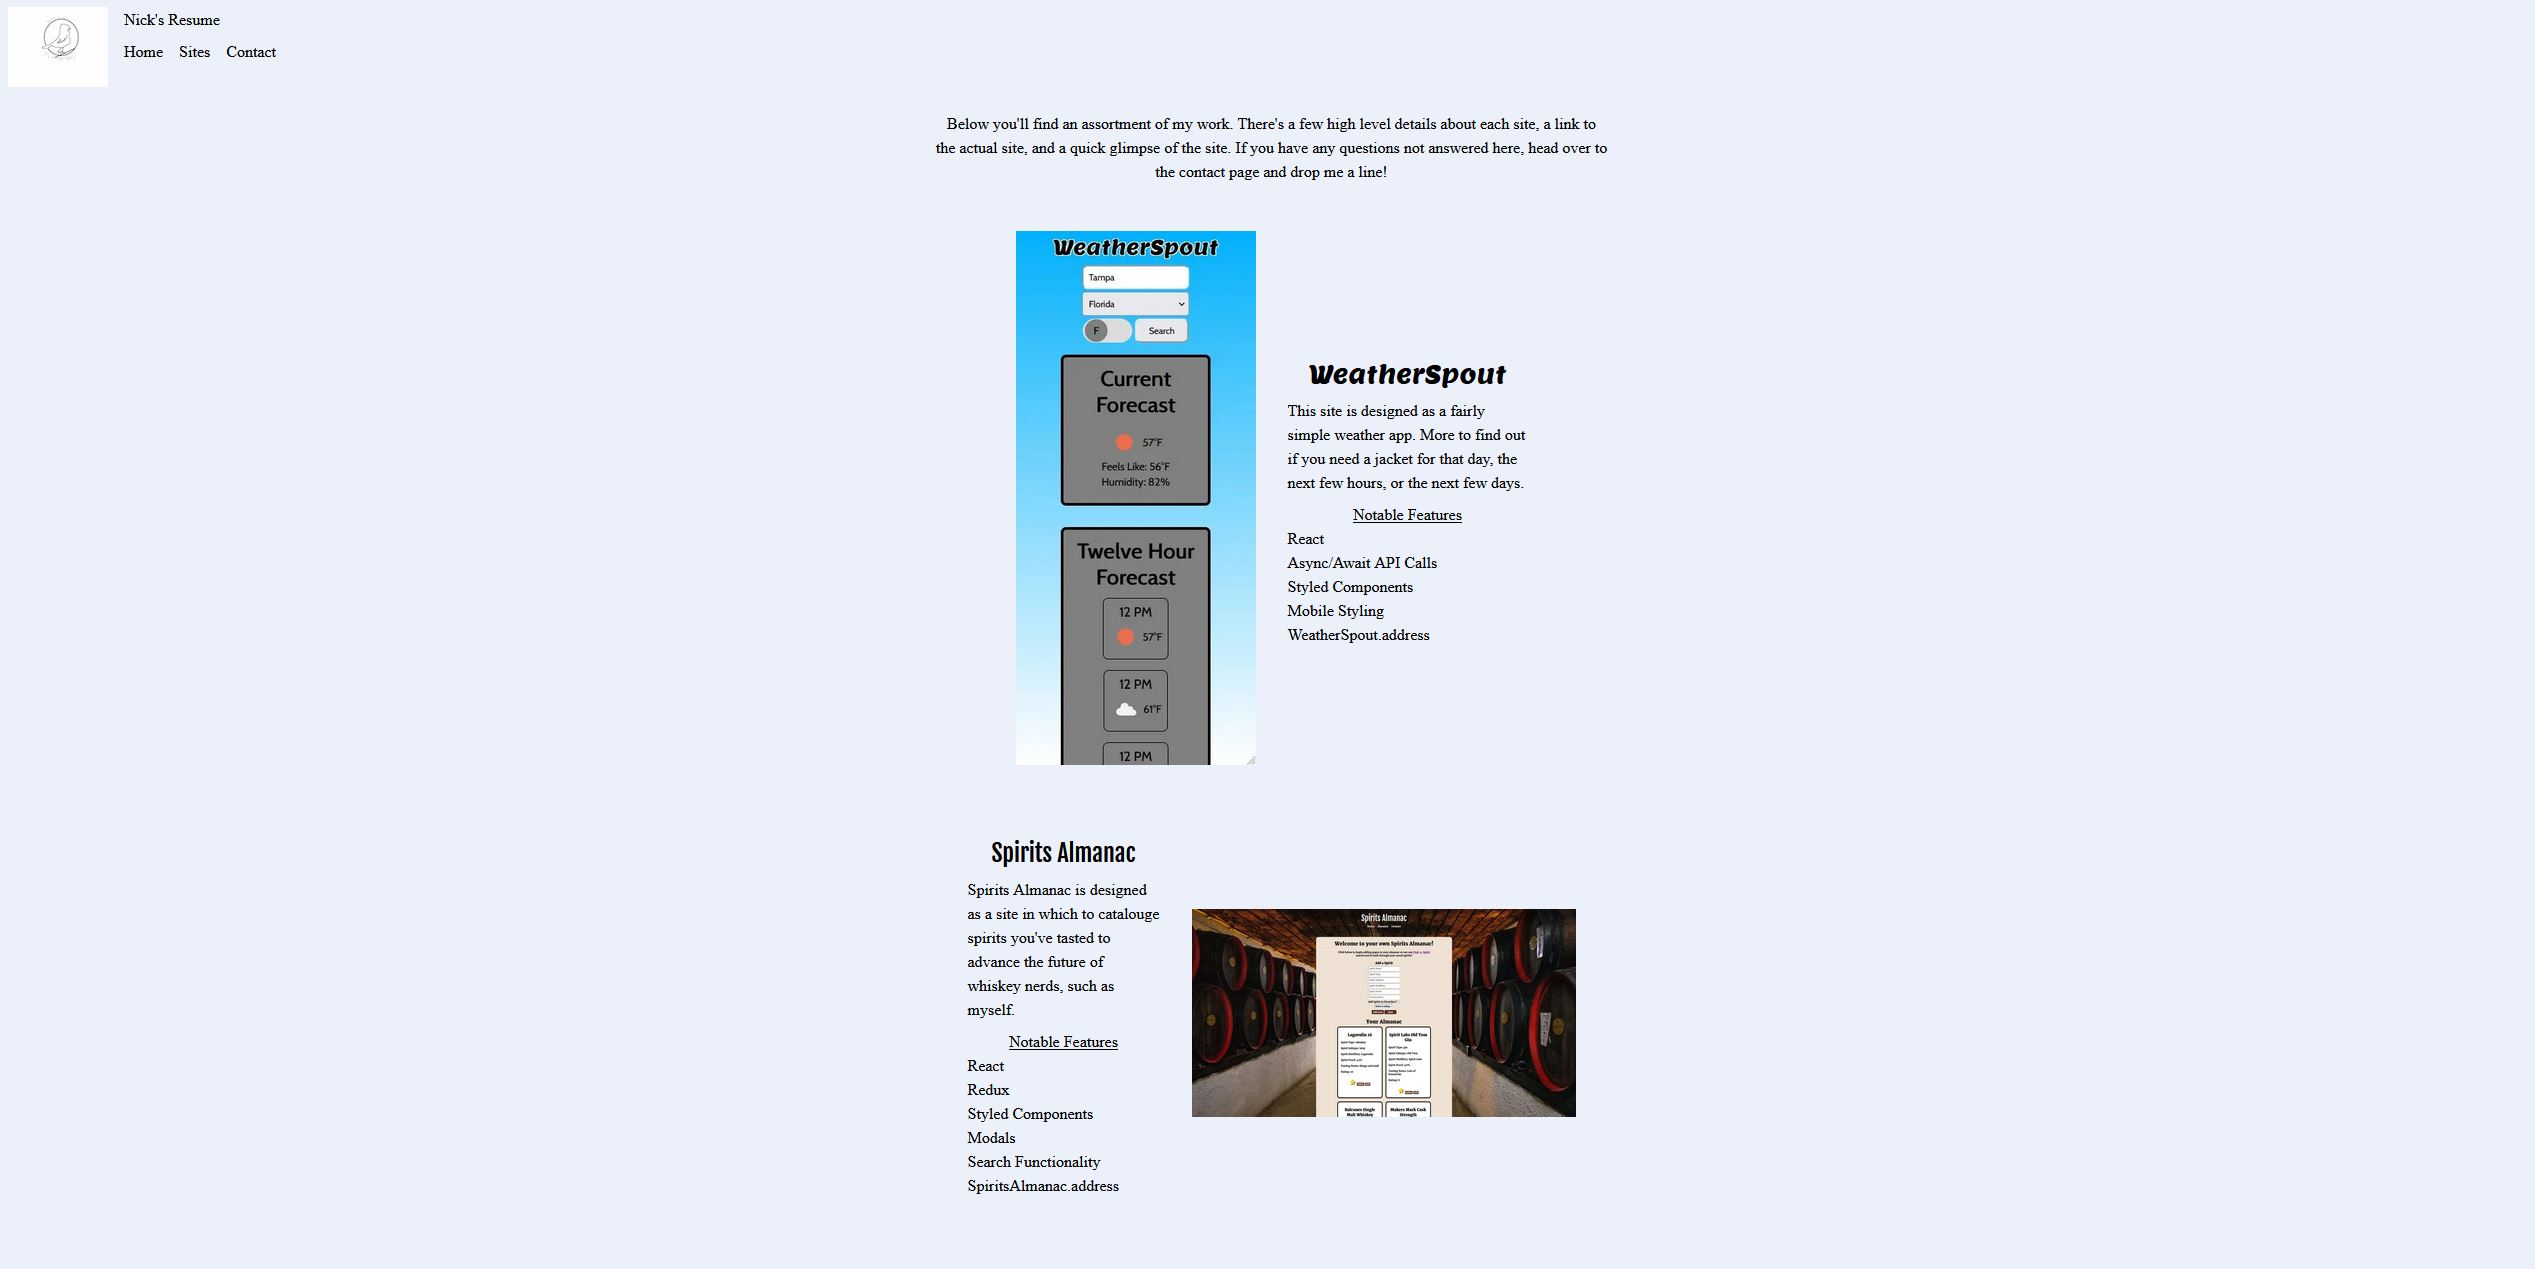
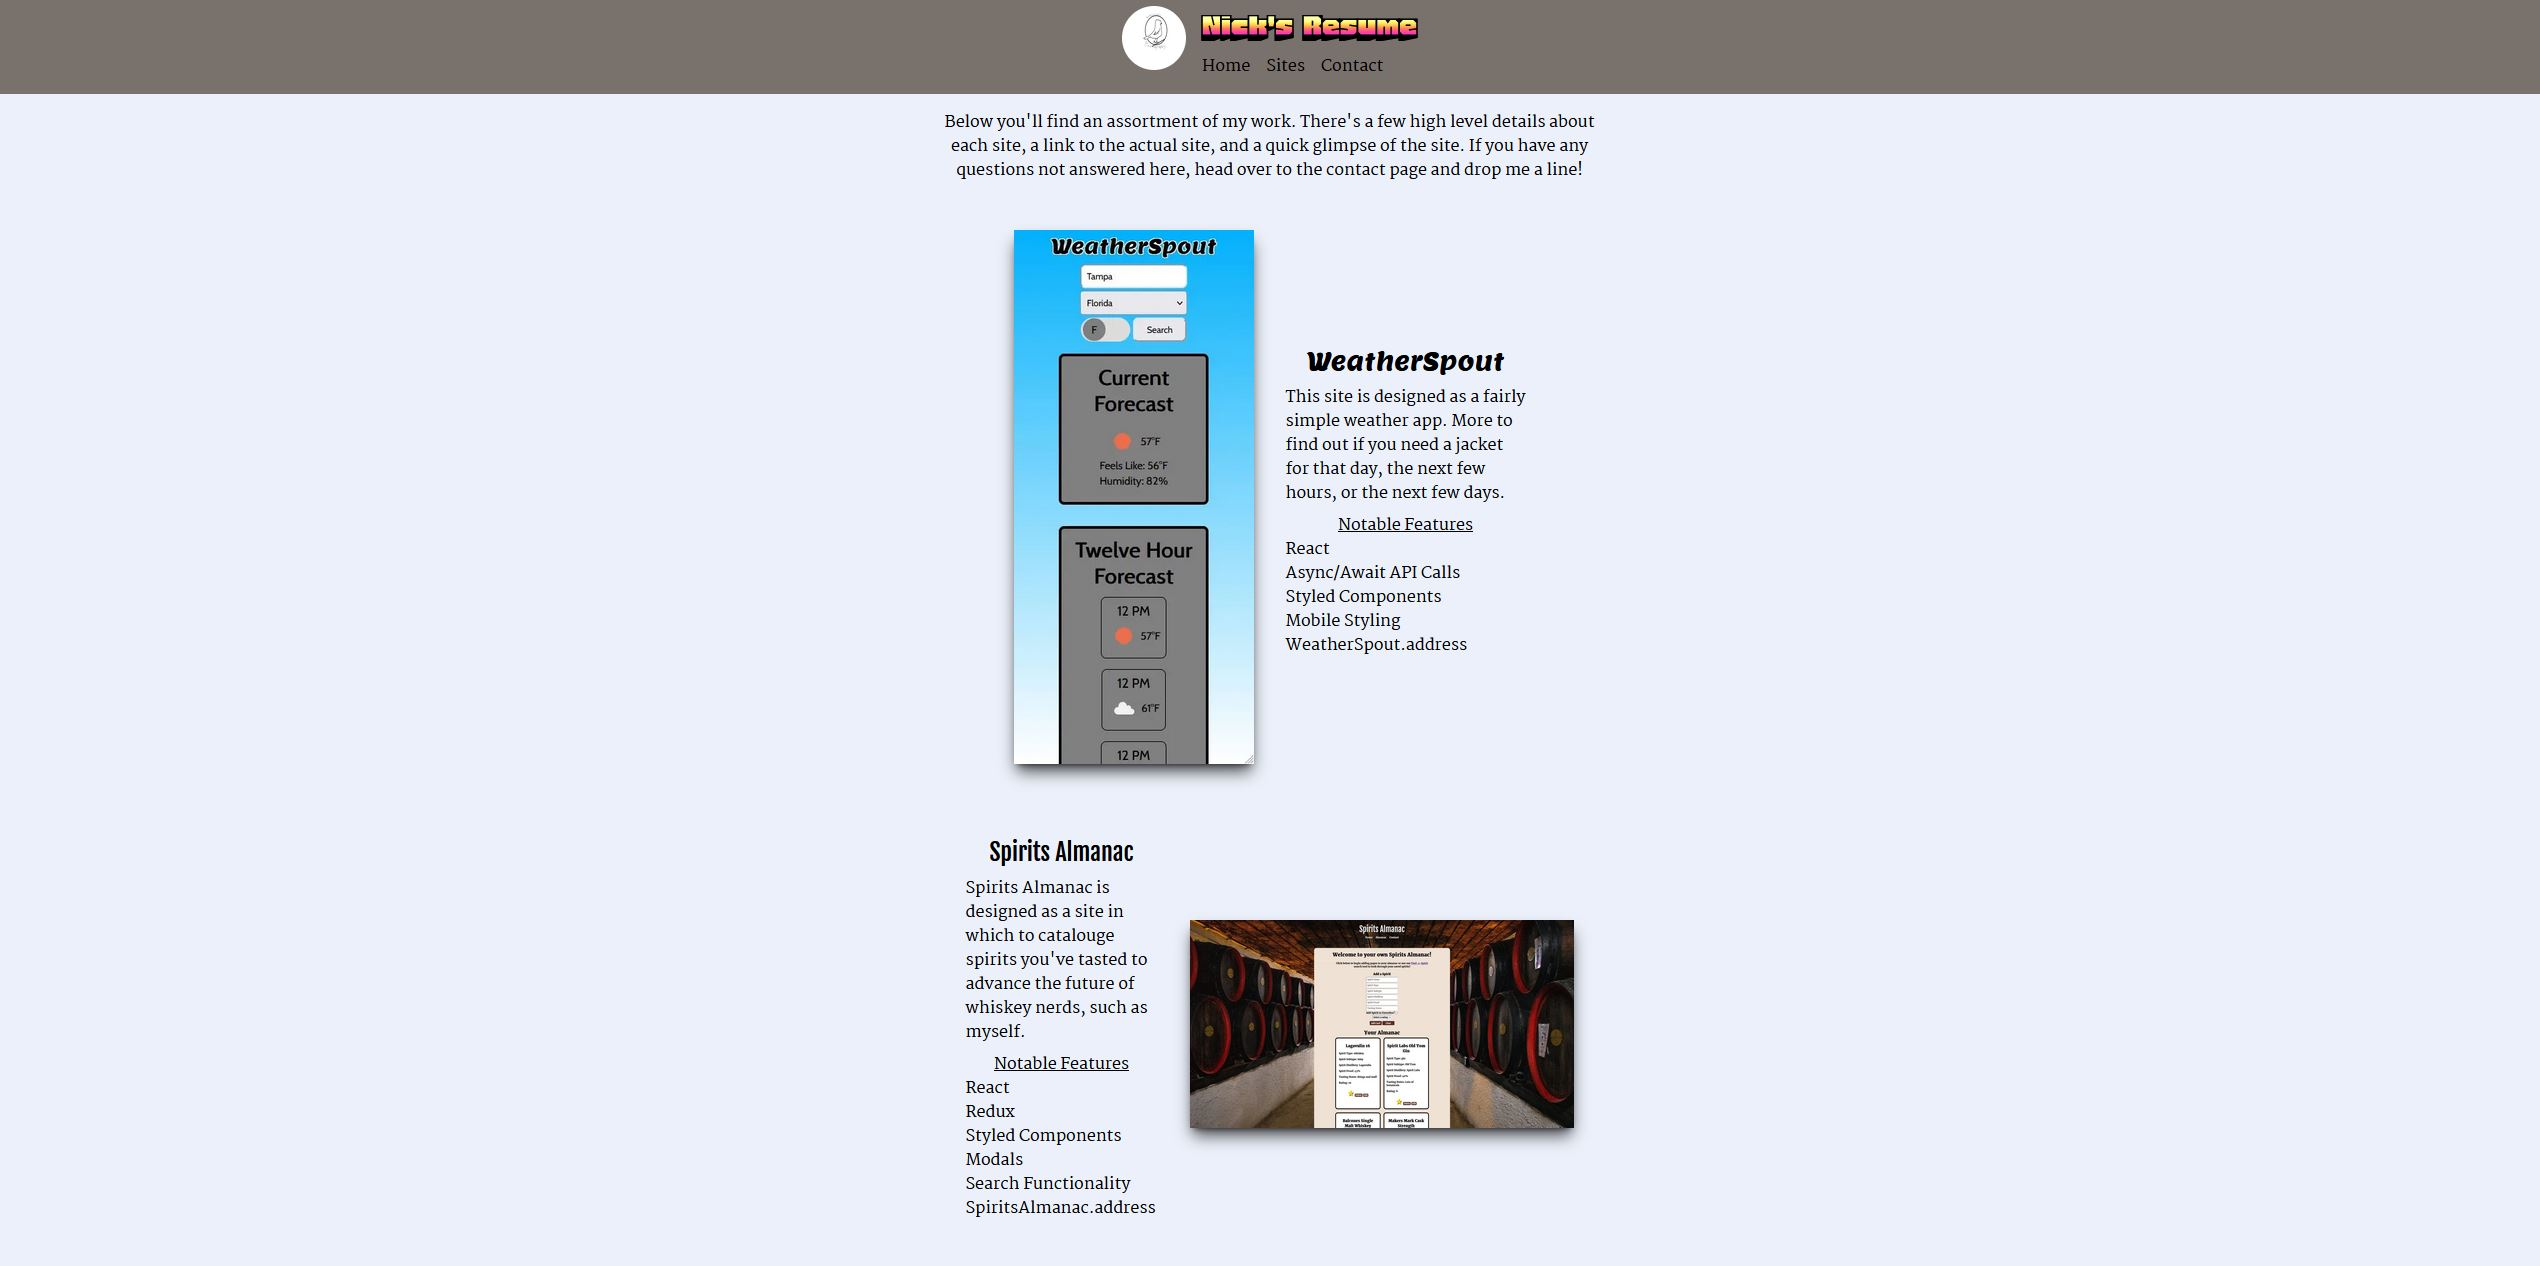
Updated some images and CSS

Changed region(s): [[0.0, 0.0, 1.0, 0.154], [0.374, 0.1848, 0.5921, 0.6161], [0.374, 0.6469, 0.6233, 0.955]]

diff --git a/app/components/header.jsx b/app/components/header.jsx
@@ -11,10 +11,10 @@ export default function Header() {
           alt="logo"
           quality={100}
           placeholder="blur"
-          className="m-2 h-16 w-16"
+          className="m-2 h-16 w-16 rounded-full"
         />
         <div>
-          <h1 className="m-2">Nick's Resume</h1>
+          <h1 className="m-2 font-Honk text-4xl">Nick's Resume</h1>
           <nav>
             <Link href="/" className="m-2">
               Home

diff --git a/app/contact/page.jsx b/app/contact/page.jsx
@@ -1,7 +1,7 @@
 export default function Contact() {
   return (
     <div className="h-auto flex flex-col items-center">
-      <div className="mt-16">
+      <div className="mt-4">
         Feel the need to reach out? Feel free send me an email or give me a
         call, and I'd be happy to chat!
       </div>
